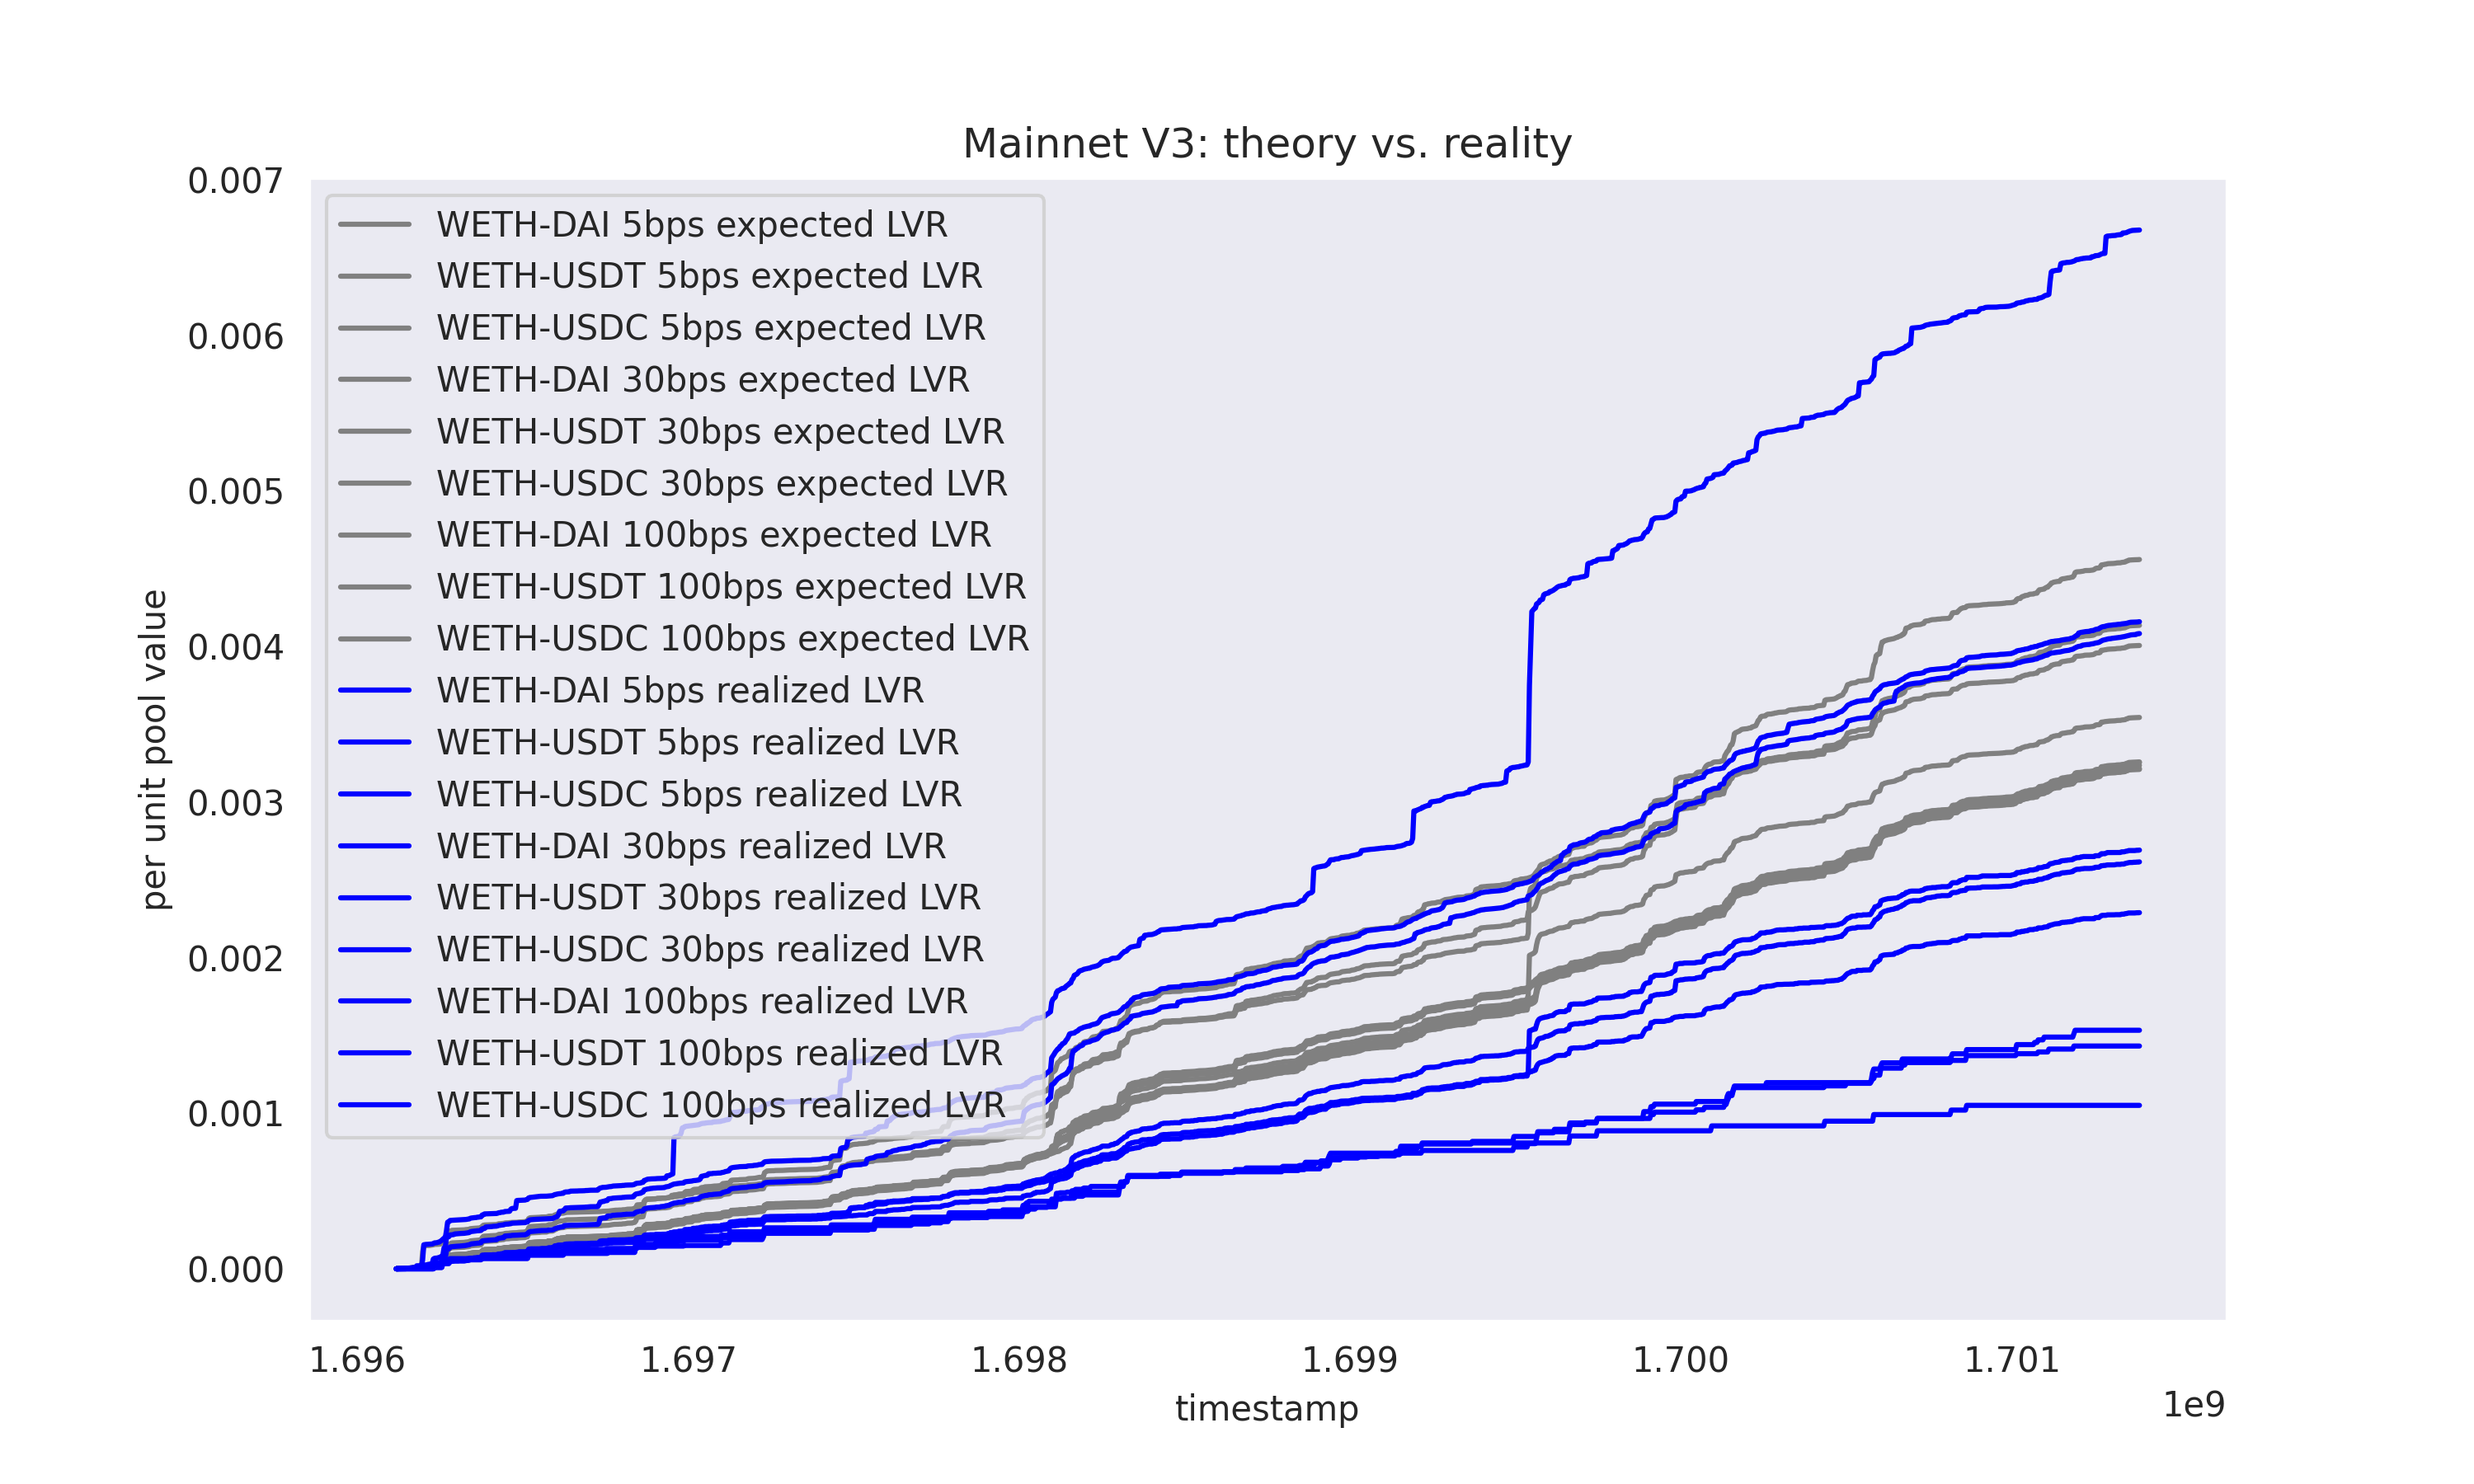
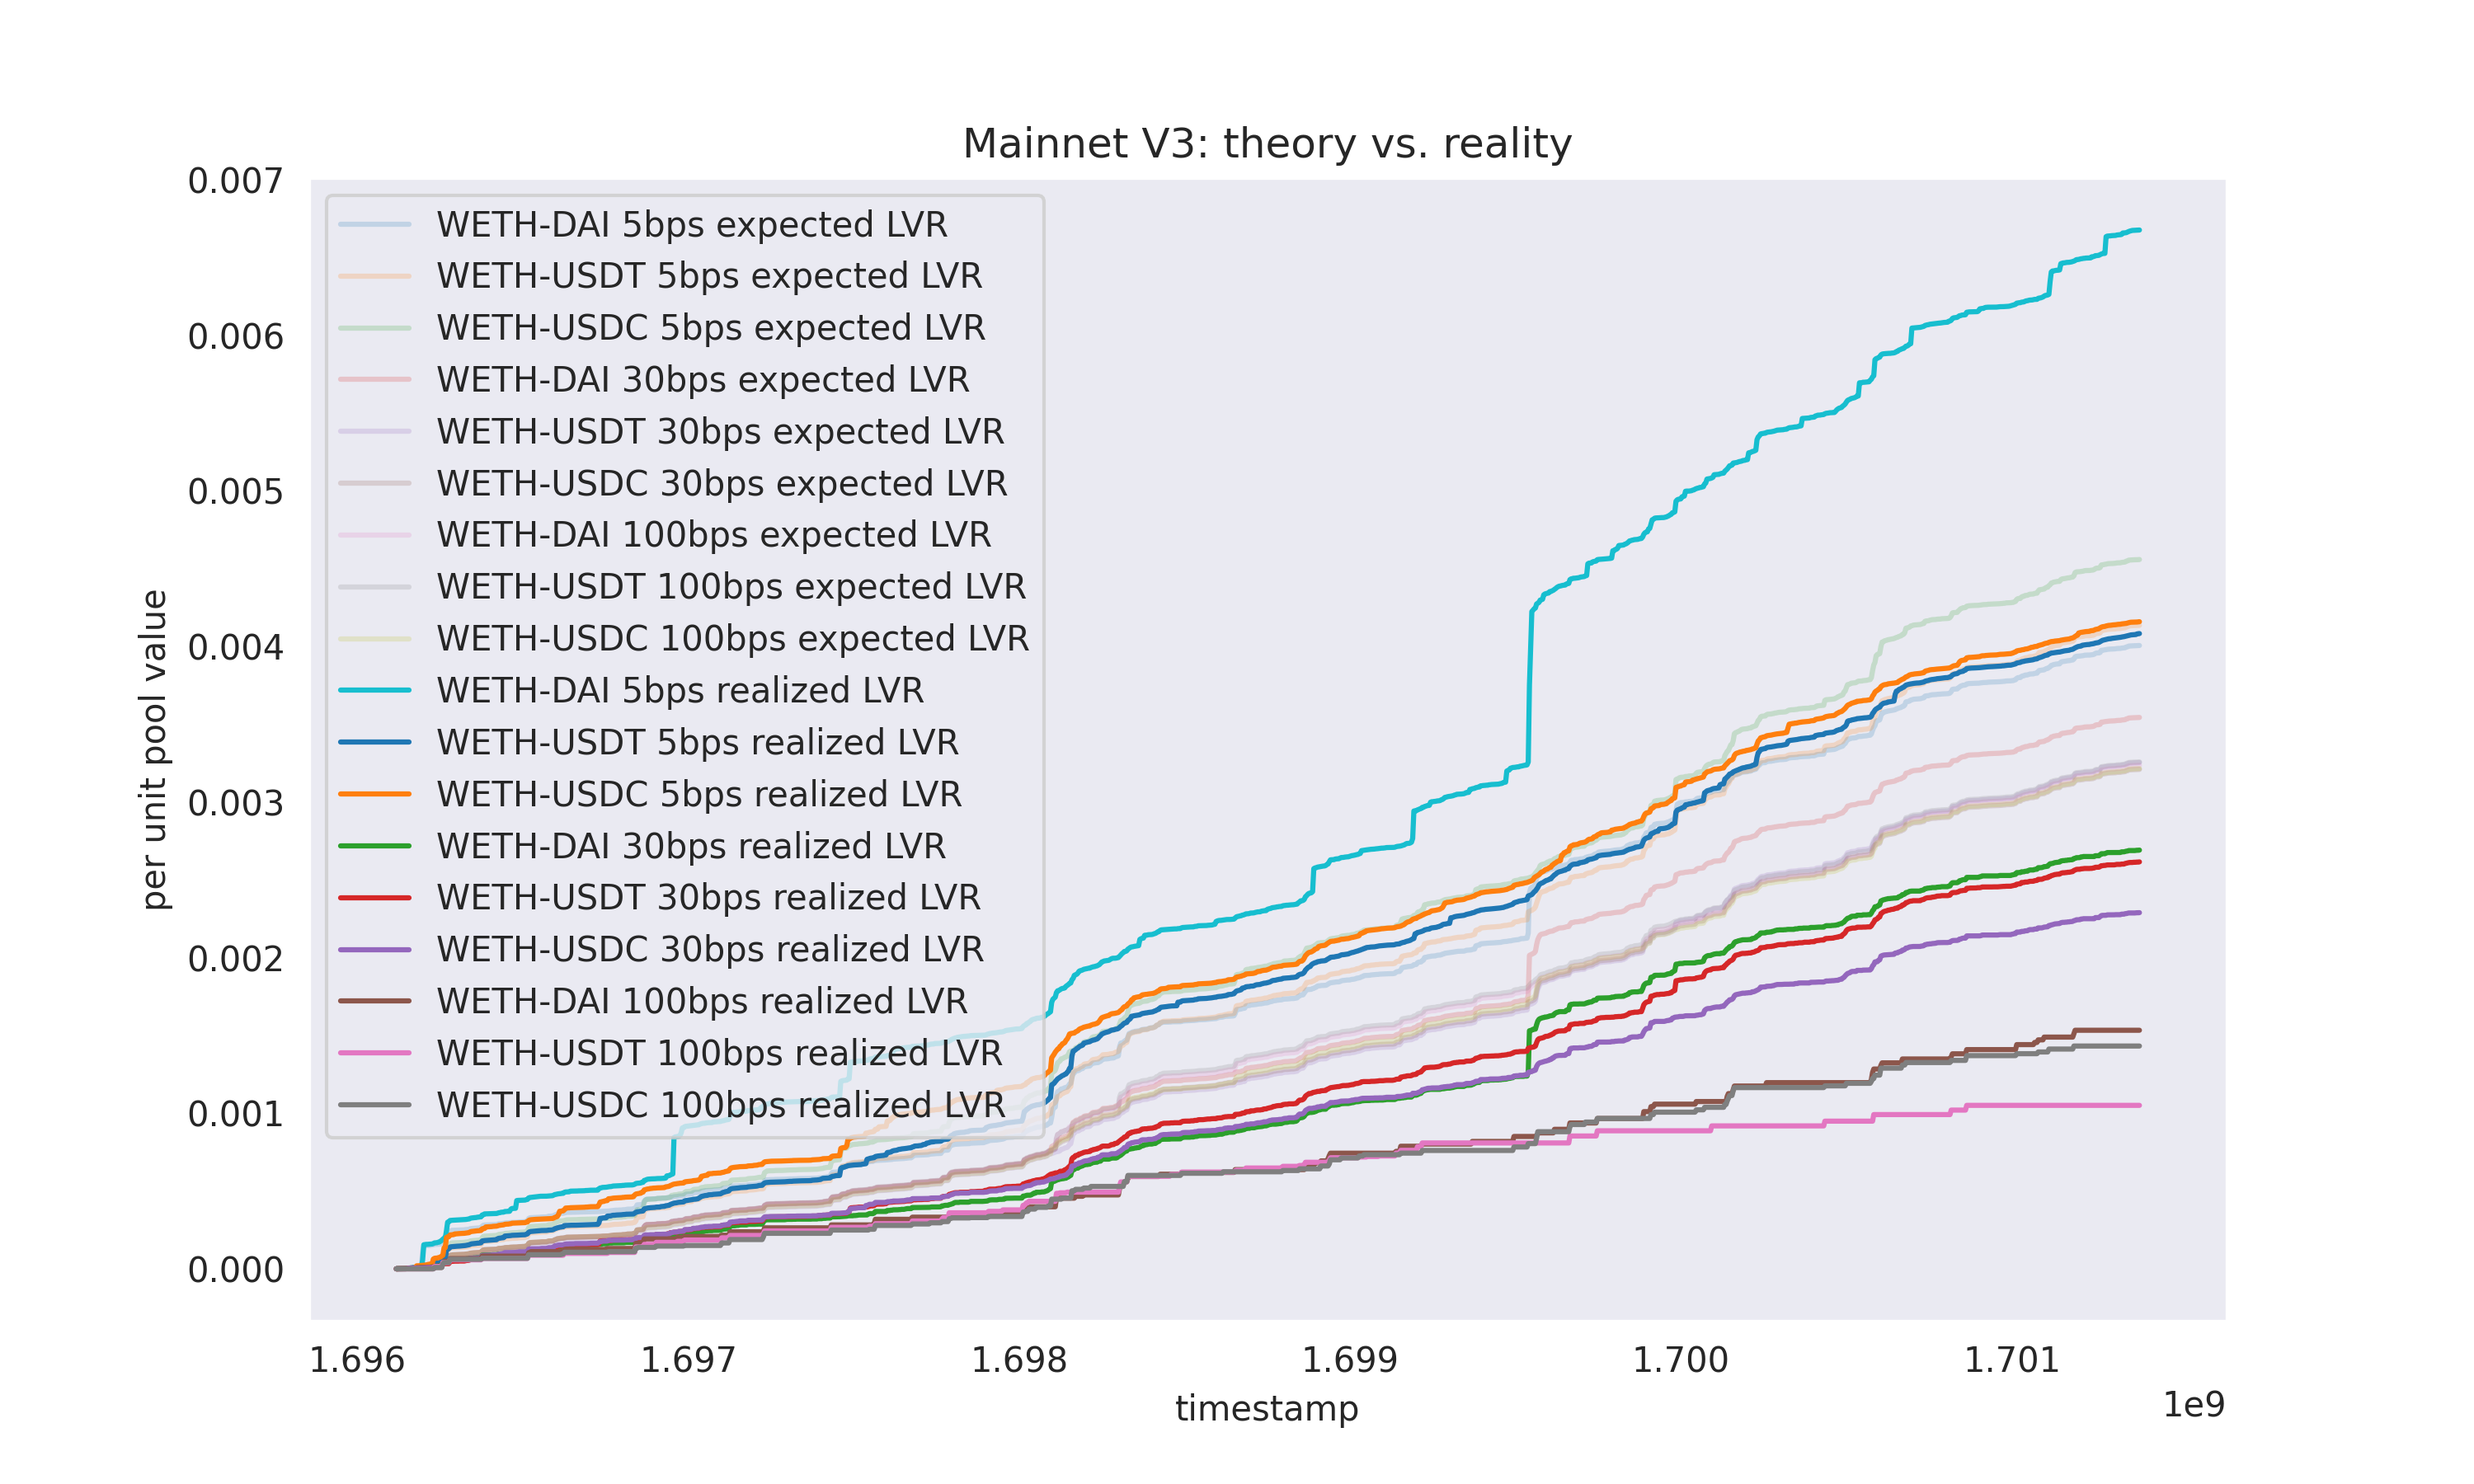
asdf

diff --git a/perform_error_analysis.py b/perform_error_analysis.py
@@ -90,62 +90,89 @@ sns.set_style("dark")
 plt.figure(figsize=(10, 6))
 
 # plot the lines
-for fee in [5, 30, 100]:
-    for quote_token in ["DAI", "USDT", "USDC"]:
+for dex, quote_token in [
+    ("CAMELOT", "USDCe"),
+    ("SUSHI", "USDC"),
+    ("SUSHI", "USDT"),
+    ("SUSHI", "DAI"),
+    ("SUSHI", "USDCe"),
+]:
         df = pd.read_csv(
-            f"results/arbitrages/MAINNET_UNI_V3_WETH_{quote_token}_{fee}bps.csv"
+            f"results/arbitrages/ARBITRUM_{dex}_WETH_{quote_token}_30bps.csv"
         )
         plt.plot(
             df["timestamp"],
             df["expectedLVRperPoolValue"].cumsum(),
-            label=f"WETH-{quote_token} {fee}bps expected LVR",
+            label=f"{dex} WETH-{quote_token} 30bps expected LVR",
         )
+
+# plot the lines
+for dex, quote_token in [
+    ("CAMELOT", "USDCe"),
+    ("SUSHI", "USDC"),
+    ("SUSHI", "USDT"),
+    ("SUSHI", "DAI"),
+    ("SUSHI", "USDCe"),
+]:
+        df = pd.read_csv(
+            f"results/arbitrages/ARBITRUM_{dex}_WETH_{quote_token}_30bps.csv"
+        )
+        plt.plot(df["timestamp"], df["realizedLVRperPoolValue"].cumsum(), alpha=0)
 
 # Label the axes
 plt.xlabel("timestamp")
 plt.ylabel("per unit pool value")
 plt.legend()
-plt.title("Mainnet V3: theory vs. reality")
+plt.title("ARBITRUM V2: theory vs. reality")
 
 # Save & Show the plot
-plt.savefig("results/MAINNET_UNI_V3_LVR_expected.png", dpi=300)
+plt.savefig("results/ARBITRUM_UNI_V2_LVR_expected.png", dpi=300)
 plt.show()
 
 # Create the plot
 plt.figure(figsize=(10, 6))
 
 # plot the lines
-for fee in [5, 30, 100]:
-    for quote_token in ["DAI", "USDT", "USDC"]:
+for dex, quote_token in [
+    ("CAMELOT", "USDCe"),
+    ("SUSHI", "USDC"),
+    ("SUSHI", "USDT"),
+    ("SUSHI", "DAI"),
+    ("SUSHI", "USDCe"),
+]:
         df = pd.read_csv(
-            f"results/arbitrages/MAINNET_UNI_V3_WETH_{quote_token}_{fee}bps.csv"
+            f"results/arbitrages/ARBITRUM_{dex}_WETH_{quote_token}_30bps.csv"
         )
         plt.plot(
             df["timestamp"],
             df["expectedLVRperPoolValue"].cumsum(),
-            label=f"WETH-{quote_token} {fee}bps expected LVR",
-            color='grey'
+            label=f"{dex} WETH-{quote_token} 30bps expected LVR",
+            alpha=0.2,
         )
 
 # plot the lines
-for fee in [5, 30, 100]:
-    for quote_token in ["DAI", "USDT", "USDC"]:
+for dex, quote_token in [
+    ("CAMELOT", "USDCe"),
+    ("SUSHI", "USDC"),
+    ("SUSHI", "USDT"),
+    ("SUSHI", "DAI"),
+    ("SUSHI", "USDCe"),
+]:
         df = pd.read_csv(
-            f"results/arbitrages/MAINNET_UNI_V3_WETH_{quote_token}_{fee}bps.csv"
+            f"results/arbitrages/ARBITRUM_{dex}_WETH_{quote_token}_30bps.csv"
         )
         plt.plot(
             df["timestamp"],
             df["realizedLVRperPoolValue"].cumsum(),
-            label=f"WETH-{quote_token} {fee}bps realized LVR",
-            color='blue'
+            label=f"{dex} WETH-{quote_token} 30bps realized LVR",
         )
 
 # Label the axes
 plt.xlabel("timestamp")
 plt.ylabel("per unit pool value")
 plt.legend()
-plt.title("Mainnet V3: theory vs. reality")
+plt.title("ARBITRUM V2: theory vs. reality")
 
 # Save & Show the plot
-plt.savefig("results/MAINNET_UNI_V3_LVR_both.png", dpi=300)
+plt.savefig("results/ARBITRUM_UNI_V2_LVR_both.png", dpi=300)
 plt.show()
